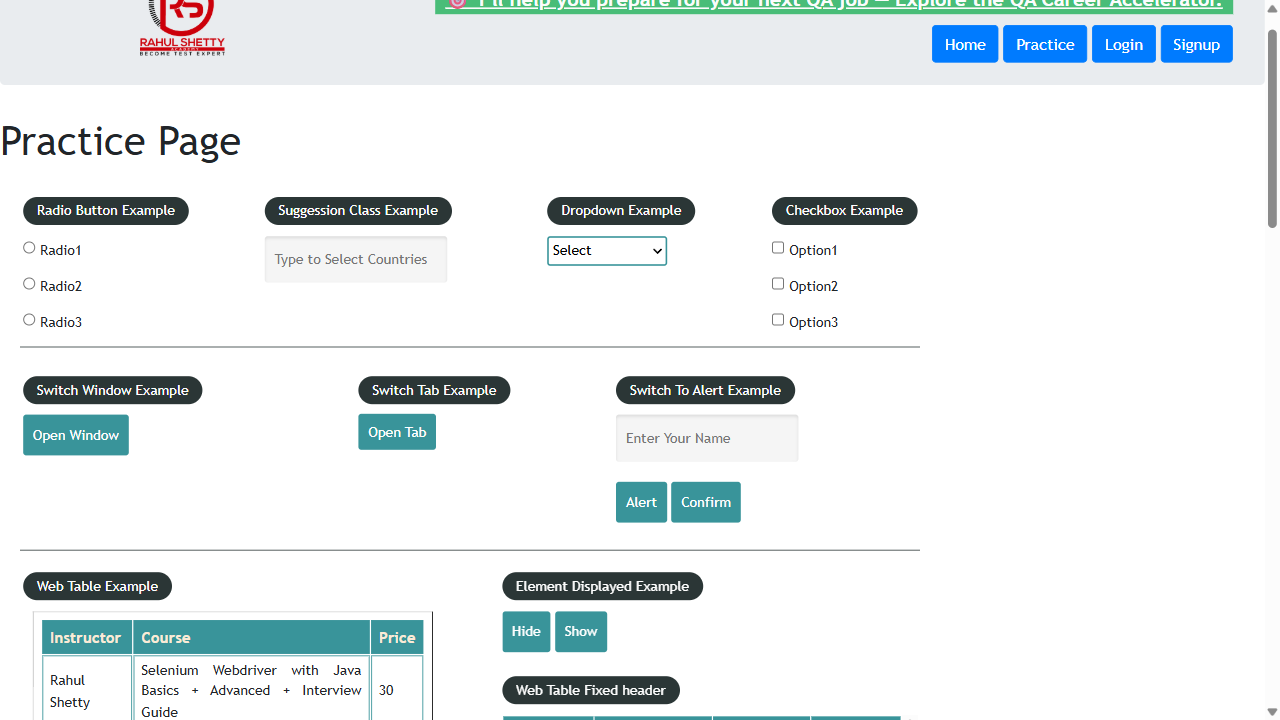
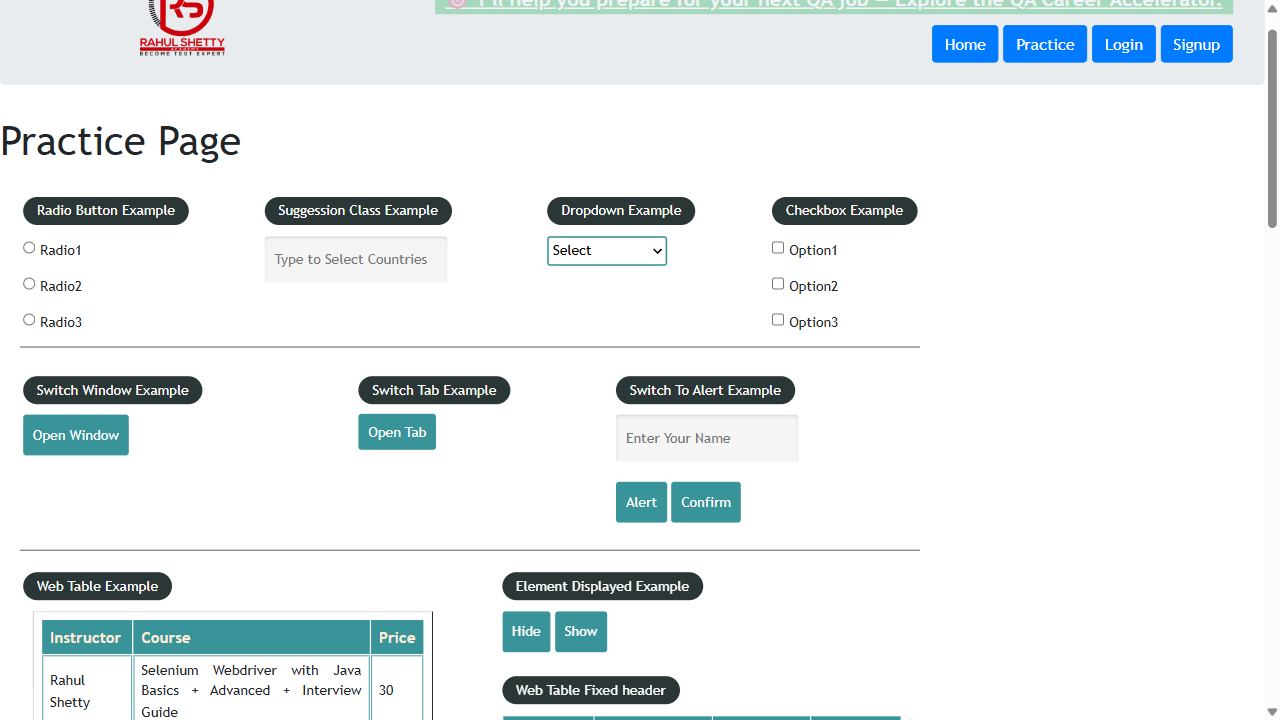
Adding the changes related to username and password

Changed region(s): [[0.3438, 0.0, 0.9688, 0.0306]]

diff --git a/utils/test-credentials.js b/utils/test-credentials.js
@@ -1,4 +1,58 @@
-function getTestCredentials() {
+function getTestAccounts() {
+    const configuredAccounts = process.env.TEST_ACCOUNTS;
+
+    if (!configuredAccounts) {
+        return null;
+    }
+
+    let accounts;
+    try {
+        accounts = JSON.parse(configuredAccounts);
+    } catch (error) {
+        throw new Error('TEST_ACCOUNTS must be a valid JSON array.', { cause: error });
+    }
+
+    if (!Array.isArray(accounts) || accounts.length === 0) {
+        throw new Error('TEST_ACCOUNTS must contain at least one account.');
+    }
+
+    const names = new Set();
+    for (const [index, account] of accounts.entries()) {
+        if (
+            !account ||
+            typeof account.name !== 'string' ||
+            !account.name.trim() ||
+            typeof account.username !== 'string' ||
+            !account.username ||
+            typeof account.password !== 'string' ||
+            !account.password
+        ) {
+            throw new Error(`TEST_ACCOUNTS entry ${index + 1} must have a name, username, and password.`);
+        }
+
+        if (names.has(account.name)) {
+            throw new Error(`TEST_ACCOUNTS account names must be unique: "${account.name}".`);
+        }
+        names.add(account.name);
+    }
+
+    return accounts;
+}
+
+function getTestAccountNames() {
+    return getTestAccounts()?.map(({ name }) => name) ?? ['default'];
+}
+
+function getTestCredentials(projectName = 'default') {
+    const accounts = getTestAccounts();
+    if (accounts) {
+        const account = accounts.find(({ name }) => name === projectName);
+        if (!account) {
+            throw new Error(`No test account is configured for Playwright project "${projectName}".`);
+        }
+        return { username: account.username, password: account.password };
+    }
+
     const { TEST_USERNAME, TEST_PASSWORD } = process.env;
 
     if (!TEST_USERNAME || !TEST_PASSWORD) {
@@ -8,4 +62,4 @@ function getTestCredentials() {
     return { username: TEST_USERNAME, password: TEST_PASSWORD };
 }
 
-module.exports = { getTestCredentials };
+module.exports = { getTestAccountNames, getTestCredentials };

diff --git a/utils/Fixtures.js b/utils/Fixtures.js
@@ -7,9 +7,9 @@ const ordersPayload = { orders: [{ country: "India", productOrderedId: "6960eac0
 
 exports.customtest = base.test.extend(
     {
-        authenticatedPage: async ({ browser }, use) => {
+        authenticatedPage: async ({ browser }, use, workerInfo) => {
 
-            const { username, password } = getTestCredentials();
+            const { username, password } = getTestCredentials(workerInfo.project.name);
             const context = await browser.newContext();
             const page = await context.newPage();
             await page.goto("https://rahulshettyacademy.com/client");
@@ -24,9 +24,9 @@ exports.customtest = base.test.extend(
 
         },
 
-        createOrder: async ({ }, use) => {
+        createOrder: async ({ }, use, workerInfo) => {
             //Login API
-            const { username, password } = getTestCredentials();
+            const { username, password } = getTestCredentials(workerInfo.project.name);
             const apiContext = await request.newContext();
             const apiUtils = new APIUtils(apiContext, { userEmail: username, userPassword: password });
             const response = await apiUtils.createOrder(ordersPayload);

diff --git a/tests/WebAPIPartTwoSessionStorage.spec.js b/tests/WebAPIPartTwoSessionStorage.spec.js
@@ -5,18 +5,19 @@ const { getTestCredentials } = require('../utils/test-credentials.js');
 
 let webContext;
 
-test.beforeAll(async ({ browser }) => {
+test.beforeAll(async ({ browser }, workerInfo) => {
 
     const context = await browser.newContext();
     const page = await context.newPage();
-    const { username, password } = getTestCredentials();
+    const { username, password } = getTestCredentials(workerInfo.project.name);
     await page.goto("https://rahulshettyacademy.com/client");
     await page.locator('#userEmail').fill(username)
     await page.locator('#userPassword').fill(password)
     await page.locator('input#login').click()
     await page.waitForLoadState('networkidle')
-    await context.storageState({ path: 'state.json' })
-    webContext = await browser.newContext({ storageState: 'state.json' })
+    const storageState = await context.storageState();
+    await context.close();
+    webContext = await browser.newContext({ storageState });
 
 })
 

diff --git a/tests/NetworkInterceptionOfRequest.spec.js b/tests/NetworkInterceptionOfRequest.spec.js
@@ -5,11 +5,11 @@ const { getTestCredentials } = require('../utils/test-credentials.js');
 // view the orders which he has created, not the ones which are not created by user
 
 
-test('Network Intercept request call for security testing', async ({ page }) => {
+test('Network Intercept request call for security testing', async ({ page }, testInfo) => {
 
     // login and reach orders page
 
-    const { username, password } = getTestCredentials();
+    const { username, password } = getTestCredentials(testInfo.project.name);
     await page.goto("https://rahulshettyacademy.com/client");
     await page.locator('#userEmail').fill(username)
     await page.locator('#userPassword').fill(password)

diff --git a/tests/EndToEndTestPageObject.spec.js b/tests/EndToEndTestPageObject.spec.js
@@ -10,11 +10,11 @@ const dataset = JSON.parse(JSON.stringify(require('../utils/placeorderTestData.j
 
 test.describe.configure({ mode: 'parallel' });
 for (const data of dataset) {
-    test(`@Web End to end test for ${data.productName}`, async ({ page }) => {
+    test(`@Web End to end test for ${data.productName}`, async ({ page }, testInfo) => {
 
         const poManager = new POManager(page);
 
-        const { username, password } = getTestCredentials();
+        const { username, password } = getTestCredentials(testInfo.project.name);
         const loginPage = poManager.getLoginPage();
         await loginPage.goTo();
         await loginPage.validLogin(username, password);

diff --git a/playwright.config.ts b/playwright.config.ts
@@ -1,5 +1,6 @@
 // @ts-check
-import { defineConfig, devices } from '@playwright/test';
+import { defineConfig } from '@playwright/test';
+const { getTestAccountNames } = require('./utils/test-credentials.js');
 
 
 /**
@@ -18,12 +19,13 @@ export default defineConfig({
   ],
 
 
-  use: {
-    browserName: 'chromium',
-    headless: false,
-    screenshot: 'on',
-    trace: 'on',
-  },
-
-
+  projects: getTestAccountNames().map(name => ({
+    name,
+    use: {
+      browserName: 'chromium',
+      headless: Boolean(process.env.CI),
+      screenshot: 'on',
+      trace: 'on',
+    },
+  })),
 });

diff --git a/tests/EndToEndTest.spec.js b/tests/EndToEndTest.spec.js
@@ -1,9 +1,9 @@
 import { expect, test } from '@playwright/test';
 const { getTestCredentials } = require('../utils/test-credentials.js');
 
-test('End to end test', async ({ page }) => {
+test('End to end test', async ({ page }, testInfo) => {
 
-    const { username, password } = getTestCredentials();
+    const { username, password } = getTestCredentials(testInfo.project.name);
     await page.goto("https://rahulshettyacademy.com/client");
     await page.locator('#userEmail').fill(username)
     await page.locator('#userPassword').fill(password)

diff --git a/tests/WebAPIPartOne.spec.js b/tests/WebAPIPartOne.spec.js
@@ -6,10 +6,10 @@ const ordersPayload = { orders: [{ country: "India", productOrderedId: "6960eac0
 
 let response;
 
-test.beforeAll(async () => {
+test.beforeAll(async ({}, workerInfo) => {
 
     //Login API
-    const { username, password } = getTestCredentials();
+    const { username, password } = getTestCredentials(workerInfo.project.name);
     const loginPayload = { userEmail: username, userPassword: password };
     const apiContext = await request.newContext();
     const apiUtils = new APIUtils(apiContext, loginPayload);

diff --git a/tests/NetworkInterceptionOfResponse.spec.js b/tests/NetworkInterceptionOfResponse.spec.js
@@ -7,10 +7,10 @@ const fakePayloadOrders = { data: [], message: "No Orders" };
 
 let response;
 
-test.beforeAll(async () => {
+test.beforeAll(async ({}, workerInfo) => {
 
     //Login API
-    const { username, password } = getTestCredentials();
+    const { username, password } = getTestCredentials(workerInfo.project.name);
     const loginPayload = { userEmail: username, userPassword: password };
     const apiContext = await request.newContext();
     const apiUtils = new APIUtils(apiContext, loginPayload);

diff --git a/utils/test-base.js b/utils/test-base.js
@@ -3,8 +3,8 @@ const { getTestCredentials } = require('./test-credentials.js');
 
 exports.customtest = base.test.extend({
 
-    testDataForOrder: async ({}, use) => {
-        const { username, password } = getTestCredentials();
+    testDataForOrder: async ({}, use, workerInfo) => {
+        const { username, password } = getTestCredentials(workerInfo.project.name);
         await use({
             username,
             password,

diff --git a/utils/APIUtils.js b/utils/APIUtils.js
@@ -13,7 +13,6 @@ class APIUtils {
 
         const loginResponseJson = await loginResponse.json()
         const token = loginResponseJson.token;
-        console.log(token)
         return token;
     }
 
